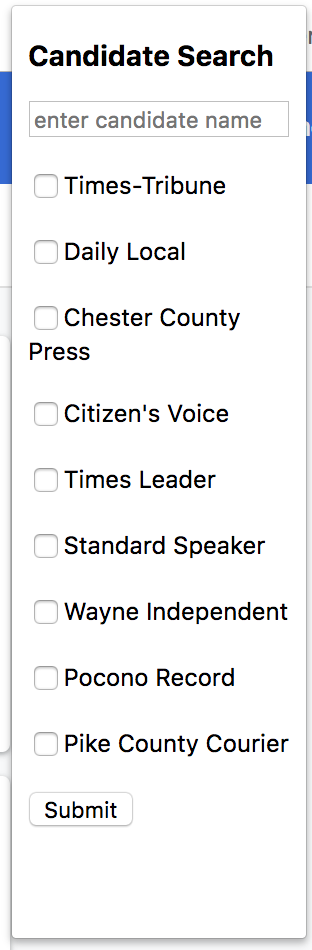
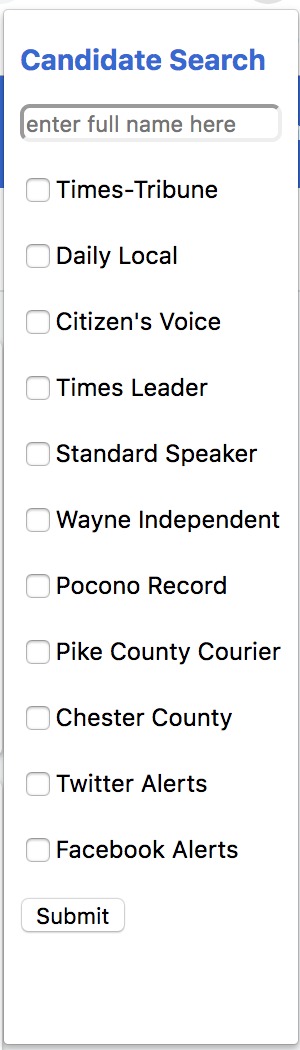
final commit of version 1.0 before deployment

Changed region(s): [[0.0, 0.0, 1.0, 1.0]]

diff --git a/background.js b/background.js
@@ -5,74 +5,59 @@ chrome.runtime.onMessage.addListener(function(request, sender, sendResponse) {
 })
 
 chrome.runtime.onMessage.addListener(function(request, sender, sendResponse){
-
   if (request.candidateSearchInit) {
-
     chrome.storage.sync.get(['candidateFirstName', 'candidateLastName'], function (data) {
       let firstName = data.candidateFirstName
       let lastName = data.candidateLastName
       let urlIdentifer = request.candidateSearchInit
-
       let timesTribuneUrl = `https://www.queryly.com/timestribune_search.htm?q=${firstName}%20${lastName}`
       let dailyLocalUrl = `https://www.dailylocal.com/search/?sd=desc&l=25&sort=relevance&f=html&t=article%2Cvideo%2Cyoutube%2Ccollection&app=editorial&nsa=eedition&q=${firstName}+${lastName}`
-      let chesterCountyPressUrl = `http://www.chestercounty.com/search?utf8=%E2%9C%93&q=${firstName}+${lastName}`
       let citizensVoiceUrl = `https://www.citizensvoice.com/search-7.810076?q=${firstName}+${lastName}&selecturl=`
       let timesLeaderUrl = `https://www.timesleader.com/#/search;query=${firstName}%20${lastName}`
       let standardSpeakerUrl = `https://www.standardspeaker.com/search-7.506128?q=${firstName}+${lastName}&selecturl=`
       let wayneIndependentUrl = `http://www.wayneindependent.com/search?text=${firstName}%20${lastName}`
       let poconoRecordUrl = `http://www.poconorecord.com/search?text=${firstName}%20${lastName}`
       let pikeCountyCourierUrl = `http://www.pikecountycourier.com/apps/pbcs.dll/search?crit=${firstName}+${lastName}&SearchCategory=%25&DateRange=&noblankcheck=0&BuildNavigators=1`
+      let chesterCountyPressUrl = `http://www.chestercounty.com/search?utf8=%E2%9C%93&q=${firstName}+${lastName}`
       let latestTwitterAlertsUrl = `https://twitter.com/search?f=tweets&vertical=default&q=${firstName}%20${lastName}&lang=en`
-      // let latestYoutubeAlertsUrl = `https://www.youtube.com/results?search_query=${firstName}+${lastName}&sp=CAI%253D`
       let latestFacebookAlertsUrl= `https://www.facebook.com/search/top/?q=${firstName}%20${lastName}`
 
-      // function getUrlLink(identifier){
-      //
-      //   chrome.tabs.create({url: identifier+"Url" })
-      // }
-      //
-      // getUrlLink(urlIdentifer)
-
       switch( urlIdentifer ) {
-
-      case "timesTribune":
-        chrome.tabs.create({url: timesTribuneUrl });
-        break
-      case "dailyLocal":
-        chrome.tabs.create({url: dailyLocalUrl });
-        break;
-      case "chesterCountyPress":
-        chrome.tabs.create({url: chesterCountyPressUrl });
-        break;
-      case "citizensVoice":
-        chrome.tabs.create({url: citizensVoiceUrl });
-        break;
-      case "timesLeader":
-        chrome.tabs.create({url: timesLeaderUrl });
-        break;
-      case "standardSpeaker":
-        chrome.tabs.create({url: standardSpeakerUrl });
-        break;
-      case "wayneIndependent":
-        chrome.tabs.create({url: wayneIndependentUrl });
-        break;
-      case "poconoRecord":
-        chrome.tabs.create({url: poconoRecordUrl });
-        break;
-      case "pikeCountyCourier":
-        chrome.tabs.create({url: pikeCountyCourierUrl });
-        break
-      case "latestTwitterAlerts":
-        chrome.tabs.create({url: latestTwitterAlertsUrl });
-        break
-      case "latestYoutubeAlerts":
-        chrome.tabs.create({url: latestYoutubeAlertsUrl });
-        break
-      // case "latestFacebookAlerts":
-      //   chrome.tabs.create({url: latestFacebookAlertsUrl });
-      //   break
-      default:
-          console.log("done");;
+        case "timesTribune":
+          chrome.tabs.create({url: timesTribuneUrl });
+          break
+        case "dailyLocal":
+          chrome.tabs.create({url: dailyLocalUrl });
+          break;
+        case "citizensVoice":
+          chrome.tabs.create({url: citizensVoiceUrl });
+          break;
+        case "timesLeader":
+          chrome.tabs.create({url: timesLeaderUrl });
+          break;
+        case "standardSpeaker":
+          chrome.tabs.create({url: standardSpeakerUrl });
+          break;
+        case "wayneIndependent":
+          chrome.tabs.create({url: wayneIndependentUrl });
+          break;
+        case "poconoRecord":
+          chrome.tabs.create({url: poconoRecordUrl });
+          break;
+        case "pikeCountyCourier":
+          chrome.tabs.create({url: pikeCountyCourierUrl });
+          break
+        case "chesterCountyPress":
+          chrome.tabs.create({url: chesterCountyPressUrl });
+          break;
+        case "latestTwitterAlerts":
+          chrome.tabs.create({url: latestTwitterAlertsUrl });
+          break
+        case "latestFacebookAlerts":
+          chrome.tabs.create({url: latestFacebookAlertsUrl });
+          break
+        default:
+            console.log("done");;
      }
 
    })

diff --git a/popup.html b/popup.html
@@ -1,59 +1,34 @@
 <!DOCTYPE html>
-
 <html>
-
     <head>
         <title>Local News Getter</title>
         <script src="jquery-3.3.1.min.js"></script>
         <script type="text/javascript" ></script>
         <script src="popup.js"></script>
         <link rel="stylesheet" type="text/css" href="style.css">
-
     </head>
-
     <body>
-
         <h3>Candidate Search</h3>
-
-        <div class="searchBoxContainer">
-          <input id="candidateId" type="text" placeholder="enter full name here"/>
-
-            <div class="searchContent">
-              
-            </div>
-
-        </div>
-
+        <input id="candidateId" type="text" placeholder="enter full name here"/>
         <br/>
         <br/>
-
         <div id="checkBoxContainer">
           <input id="timesTribune" type="checkbox" value="timesTribune">Times-Tribune<br/><br/>
           <input id="dailyLocal" type="checkbox" value="dailyLocal">Daily Local<br/><br/>
-          <input id="chesterCountyPress" type="checkbox" value="chesterCountyPress">Chester County Press<br/><br/>
           <input id="citizensVoice" type="checkbox" value="citizensVoice">Citizen's Voice<br/><br/>
           <input id="timesLeader" type="checkbox" value="timesLeader">Times Leader<br/><br/>
           <input id="standardSpeaker" type="checkbox" value="standardSpeaker">Standard Speaker<br/><br/>
           <input id="wayneIndependent" type="checkbox" value="wayneIndependent">Wayne Independent<br/><br/>
           <input id="poconoRecord" type="checkbox" value="poconoRecord">Pocono Record<br/><br/>
           <input id="pikeCountyCourier" type="checkbox" value="pikeCountyCourier">Pike County Courier<br/><br/>
-          <input id="latestTwitterAlerts" type="checkbox" value="latestTwitterAlerts">Latest Twitter Alerts<br/><br/>
-          <!-- <input id="latestYoutubeAlerts" type="checkbox" value="latestYoutubeAlerts">Latest Youtube Alerts<br/><br/> -->
-          <input id="latestFacebookAlerts" type="checkbox" value="latestFacebookAlerts">Latest Facebook Alerts<br/><br/>
+          <input id="chesterCountyPress" type="checkbox" value="chesterCountyPress">Chester County<br/><br/>
+          <input id="latestTwitterAlerts" type="checkbox" value="latestTwitterAlerts">Twitter Alerts<br/><br/>
+          <input id="latestFacebookAlerts" type="checkbox" value="latestFacebookAlerts">Facebook Alerts<br/><br/>
         </div>
-
         <input id="getCandidateName" type="submit" />
-
         <br/>
         <br/>
         <br/>
         <br/>
-
-
-
-
     </body>
-
-
-
 </html>

diff --git a/style.css b/style.css
@@ -1,52 +1,7 @@
 h3 {
-  color: green;
+  color: #3367d6;
 }
 
 #candidateId {
-    border-box: box-sizing;
-    /* background-image: url('searchicon.png'); */
-    /* background-position: 8em 6em; */
-    /* background-repeat: no-repeat; */
-    font-size: 12px;
-    /* padding: 14px 20px 12px 45px; */
-    border: none;
-    border-bottom: 1px solid #ddd;
-}
-
-#candidateId:focus {outline: 3px solid #ddd;}
-
-/* .dropdown {
-    position: relative;
-    display: inline-block;
-} */
-
-.searchBoxContainer {
-
-    position: absolute;
-    background-color: #f6f6f6;
-    /* min-width: 25px; */
-    overflow: auto;
-    border: .5px solid #ddd;
-    z-index: 1;
-    display: block;
-    position: relative;
-    display: inline-block;
-
-}
-
-.searchContent {
-  display: none;
-  color: black;
-  padding: 1px 1px;
-  text-decoration: none;
-      /* display: block; */
-}
-
-.searchContent p:hover {background-color: #ddd;}
-
-.searchContentOnKey {
-  color: black;
-  padding: 1px 1px;
-  text-decoration: none;
-  display: block;
+    border-radius: 5px;
 }

diff --git a/popup.js b/popup.js
@@ -23,9 +23,3 @@ $(function(){
    })
 
 })
-
-// $(function saveSearchTerms() {
-//     if ( chrome.storage.sync.get([{"savedSearch"}]){
-//       chrome.storage.sync.get
-//     })
-// })

diff --git a/README.md b/README.md
@@ -3,14 +3,16 @@
 ### Introduction
 
 Google Chrome extension where users can look up articles of political candidates from local newspapers in Pennsylvania such as:
-  * Times Tribune
+  * Times-Tribune
   * Daily Local
-  * Chester County Press
   * Citizen's Voice
   * Standard Speaker
   * Times Leader
   * Wayne Independent
   * Pocono Record
   * Pike County Courier
+  * Chester County Press
+  * Twitter Alerts
+  * Facebook Alerts
 
 ![ScreenshotOfLocalNewsExtension](screenshotOfLocalNewsExtension.png)
